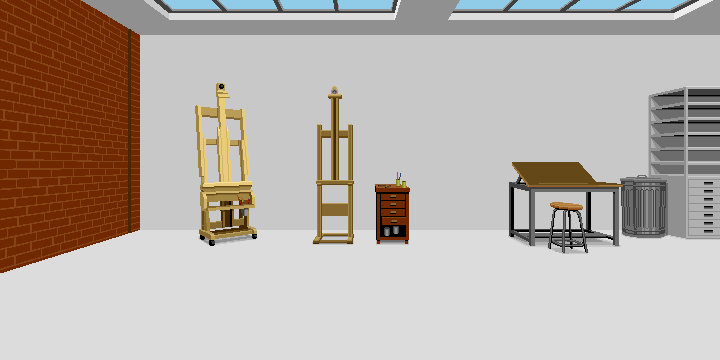
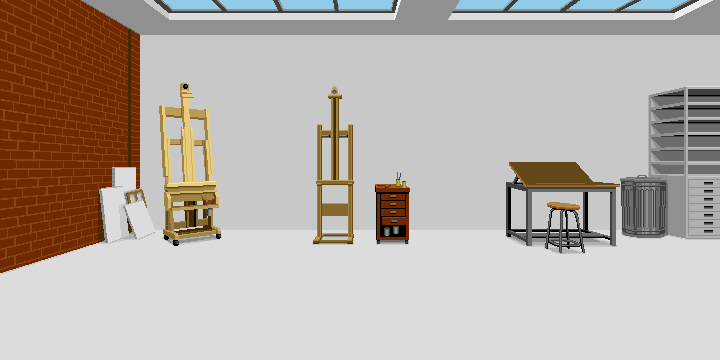
Drawings transition and charcoal artworks.

diff --git a/packages/retronator-hq/floor4/artstudio/drawings/drawings.html b/packages/retronator-hq/floor4/artstudio/drawings/drawings.html
@@ -2,6 +2,9 @@
   <div class="retronator-hq-artstudio-drawings">
     <div class="scene">
       <div class="background" data-origin-x="0" data-origin-y="0" data-depth="0">
+        <div class="rodin artwork"></div>
+        <div class="in-a-feeling artwork"></div>
+        <div class="in-a-moment artwork"></div>
         <div class="evil-is-love-spelled-backwards artwork"></div>
         <div class="black-lab artwork"></div>
         <div class="a-brutally-soft-woman artwork"></div>
